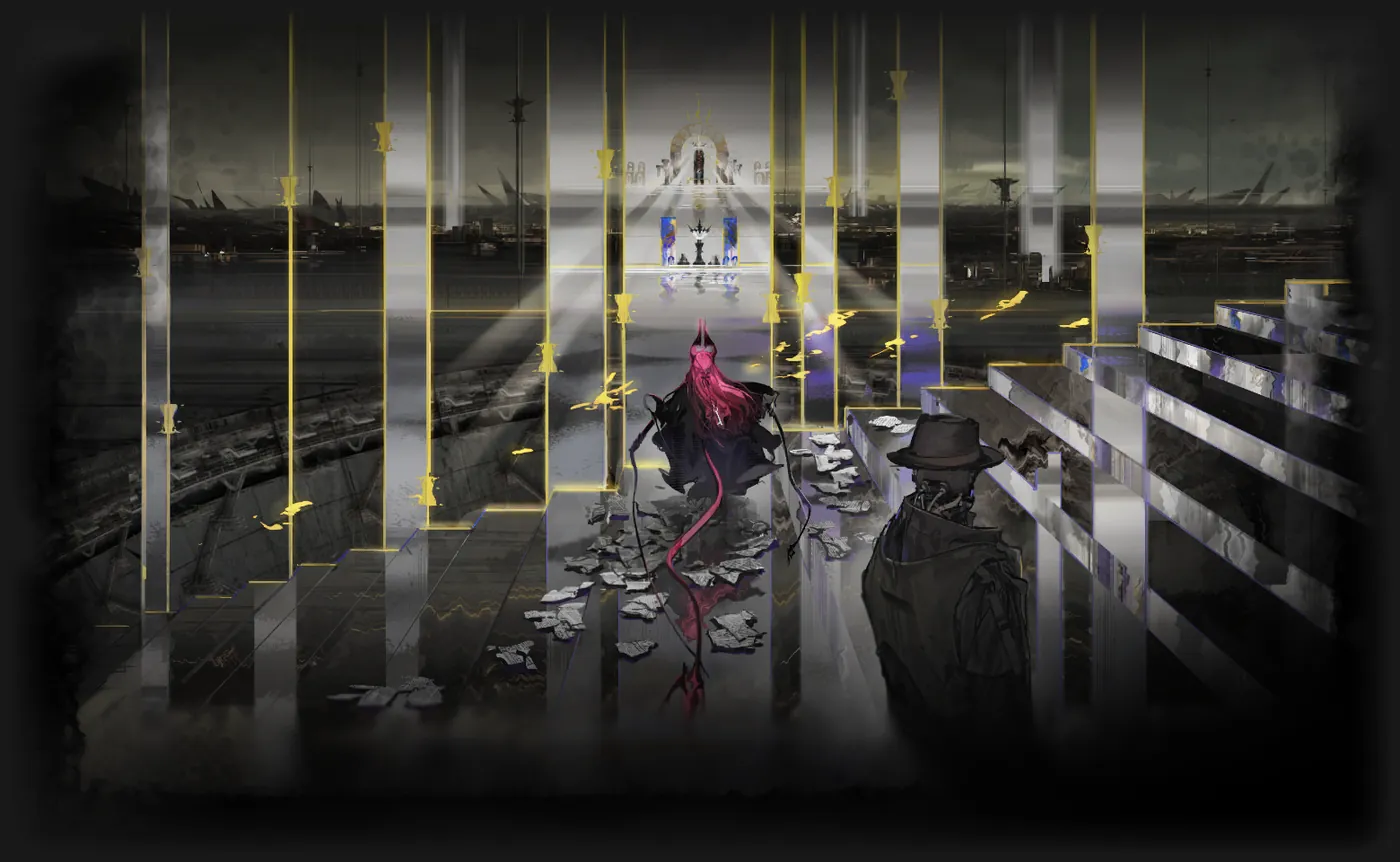
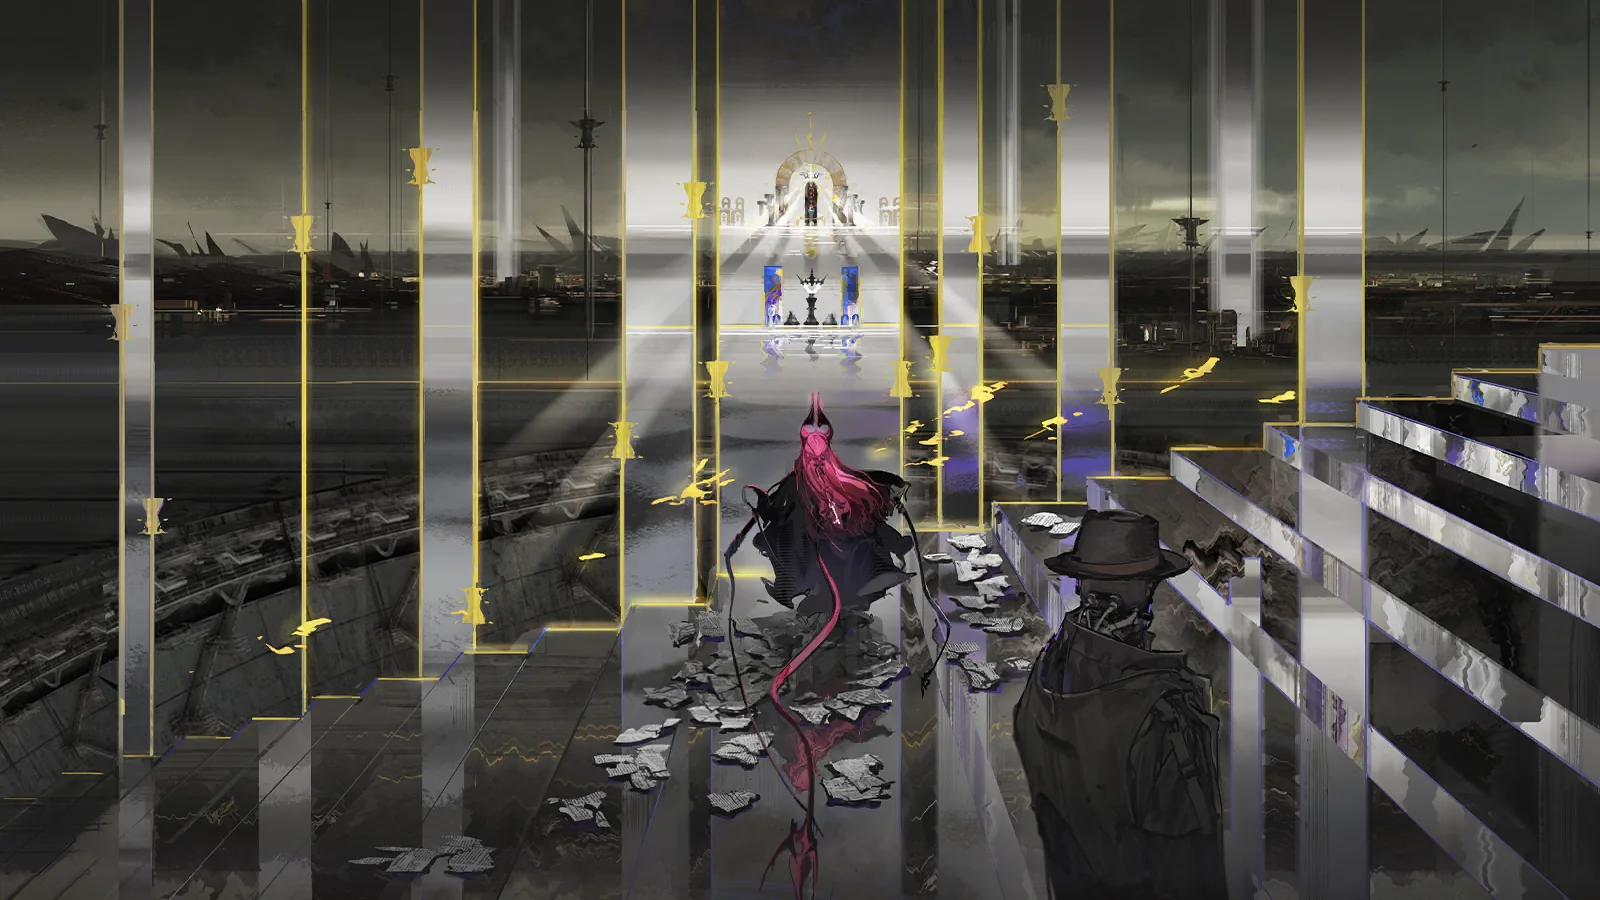
통합전략 테마 — 테마색 조명(주색 빛·보조색 안개·비네트)과 카드 윗변 빛·호버 빛무리, 배경 키비주얼을 스토리 컷씬판 고해상도(1600×900)로 교체

diff --git a/app/globals.css b/app/globals.css
@@ -14648,7 +14648,8 @@ html.rg-theme {
   height: 100%;
   object-fit: cover;
   object-position: 68% 22%;
-  opacity: 0.3;
+  opacity: 0.4;   /* 0.3 → 0.4 (2026-10-17 테마 조명과 함께 — 대비는 비네트가 지킨다) */
+  filter: saturate(1.15);
   pointer-events: none;
   -webkit-mask-image: linear-gradient(180deg, #000 0, #000 32%, transparent 82%);
   mask-image: linear-gradient(180deg, #000 0, #000 32%, transparent 82%);
@@ -14662,6 +14663,52 @@ html.rg-theme.rg6 .rg-kv-page {
   transform: translateY(10%);
   -webkit-mask-image: linear-gradient(180deg, transparent 0, #000 6%, #000 32%, transparent 82%);
   mask-image: linear-gradient(180deg, transparent 0, #000 6%, #000 32%, transparent 82%);
+}
+/* ── 테마 조명 (사용자 요청 2026-10-17 "테마별 배경·색감 좀 더 예쁘게") ──
+   배경이 '어두운 단색 + 흐린 그림'뿐이라 밋밋했다. 키비주얼 **위**에 얇은 조명 한 장을 덮는다:
+   ① 인물 쪽(오른쪽 위)에 테마 주색 빛 ② 왼쪽 아래에 보조색 안개 ③ 가장자리를 눌러 주는 비네트.
+   그림 자체는 조금 더 살리고(불투명도 0.3 → 0.4, 채도 살짝) — 글 대비는 비네트·카드 바탕이 지킨다.
+   색은 테마마다 --rgglow(주) · --rgglow2(보조) 두 개만 고른다. */
+.rg,
+html.rg-theme {
+  --rgglow: #c23b4e;
+  --rgglow2: #c9a35c;
+}
+.rg.rg2, html.rg-theme.rg2 { --rgglow: #3f8fe0; --rgglow2: #4fd2e6; }
+.rg.rg3, html.rg-theme.rg3 { --rgglow: #a9c6e0; --rgglow2: #e6ecf4; }
+.rg.rg4, html.rg-theme.rg4 { --rgglow: #a01e2c; --rgglow2: #c47a33; }
+.rg.rg5, html.rg-theme.rg5 { --rgglow: #f0a0c0; --rgglow2: #c9a7e8; }
+.rg.rg6, html.rg-theme.rg6 { --rgglow: #1fb59e; --rgglow2: #c9b27c; }
+.rg:has(.rg-kv-page)::after {
+  content: "";
+  position: fixed;
+  inset: 0;
+  z-index: -1;
+  pointer-events: none;
+  background:
+    radial-gradient(ellipse 55% 45% at 72% 18%, color-mix(in srgb, var(--rgglow) 22%, transparent), transparent 70%),
+    radial-gradient(ellipse 50% 40% at 12% 100%, color-mix(in srgb, var(--rgglow2) 12%, transparent), transparent 70%),
+    radial-gradient(ellipse 110% 85% at 55% 35%, transparent 55%, color-mix(in srgb, var(--rgbg) 80%, #000) 100%);
+}
+/* 카드 — 윗변에 테마빛 한 줄, 올리면 은은한 빛무리 */
+.rg .rg-zonecard,
+.rg .rg-sec-card,
+.rg .rg-zone,
+.rg .rg-relic,
+.rg .rg-ending,
+.rg .rg-visitor,
+.rg .rg-enemy-cell {
+  box-shadow: inset 0 1px 0 color-mix(in srgb, var(--rgglow) 28%, transparent);
+  transition: border-color 0.15s, box-shadow 0.2s;
+}
+.rg .rg-zonecard:hover,
+.rg .rg-sec-card:hover,
+.rg .rg-relic:hover,
+.rg .rg-ending:hover,
+.rg .rg-visitor:hover,
+.rg .rg-enemy-cell:hover {
+  box-shadow: inset 0 1px 0 color-mix(in srgb, var(--rgglow) 55%, transparent),
+    0 0 18px color-mix(in srgb, var(--rgglow) 22%, transparent);
 }
 /* ⚠ 본문에 z-index 를 일괄로 걸면 안 된다 — .rg-head(z 5)·.rg-headtools(z 30) 처럼
    원래 층이 있던 요소까지 1로 눌려, 테마 변경 드롭다운이 탭 줄 **뒤로** 들어가 눌리지

diff --git a/app/rogue.tsx b/app/rogue.tsx
@@ -67,6 +67,9 @@ function routesFor(id: string): StageRoutes | undefined {
 // 게임연결·리플레이 배포 스위치 — 2026-07-26 켜짐(사용자 지시). 끄면 진입 버튼
 // (BridgeTopicButton)만 사라지고 인식 파이프라인은 죽은 경로로 남는다.
 const BRIDGE_LIVE = true;
+/* 테마 키비주얼 캐시 키 — R2 그림은 30일 캐시라 같은 파일명으로 갈아 끼우면 옛 그림이 남는다. 그림을 바꾸면 올린다
+   (2026-10-17 스토리 컷씬판 1600×900 으로 교체). */
+const KV_VER = "20261017";
 
 // 스샷 레이더 도움말 — 순수 설명 전용 모달 (입력 기능은 페이지 레벨 자동인식이 전담)
 const LensHelpModal = lazy(() => import("./lens/help"));
@@ -2925,7 +2928,7 @@ export default function RogueGuide({ initialTopic }: {
         {/* 테마 키비주얼 — 히어로 상자가 아니라 **페이지 배경**으로 깔린다
             (사용자 제안 2026-09-20). 스크롤과 무관하게 제자리(fixed), 아래로 갈수록
             사라지는 마스크 + 낮은 불투명도라 글을 가리지 않는다. CSS: .rg-kv-page */}
-        {initialTopic && <img className="rg-kv-page" src={asset(`/rogue/kv${initialTopic.split("_")[1]}.webp`)} alt="" aria-hidden loading="lazy" decoding="async" />}
+        {initialTopic && <img className="rg-kv-page" src={asset(`/rogue/kv${initialTopic.split("_")[1]}.webp?v=${KV_VER}`)} alt="" aria-hidden loading="lazy" decoding="async" />}
         {seed && (
           <header className="rg-head">
             <div className="rg-hero">
@@ -3066,7 +3069,7 @@ export default function RogueGuide({ initialTopic }: {
     <section className={`rg${topic === "rogue_1" ? "" : " rg" + topic.split("_")[1]}`} aria-labelledby="rg-title"
       style={{ ["--rg-hue" as string]: TOPIC_HUE[topic] }}>
       {/* 테마 키비주얼 — 히어로 상자가 아니라 페이지 배경 (위 프리렌더 분기와 같은 그림) */}
-      <img className="rg-kv-page" src={asset(`/rogue/kv${topic.split("_")[1]}.webp`)} alt="" aria-hidden decoding="async" />
+      <img className="rg-kv-page" src={asset(`/rogue/kv${topic.split("_")[1]}.webp?v=${KV_VER}`)} alt="" aria-hidden decoding="async" />
       <header className="rg-head">
         <div className="rg-hero">
           <div className="rg-hero-text">

diff --git a/scripts/build-rogue.py b/scripts/build-rogue.py
@@ -1099,6 +1099,9 @@ def build_topic(tid="rogue_1", loc=None):
     # 토픽마다 불규칙해 개별 매핑. 이미 있으면 스킵 (사용자 확정 아트 2026-07-18).
     # ⚠ rogue_3 좌측 반쪽엔 CN 제목이 박혀 있어 커밋본 kv3.webp는 하늘 그라데이션
     # 보간으로 텍스트를 지운 가공본 — 삭제 후 재실행하면 텍스트가 되살아난다.
+    # ⚠ 2026-10-17 부터 커밋본 kv1~6 은 이 경로가 아니라 같은 그림의 스토리 컷씬판
+    #   avg/images/pic_rogue_<N>_kv{1|2} (1600×900, 글자·바랜 테두리 없음)이다 — 사용자 "배경 고해상도 없었나?".
+    #   N → 컷: 1·4·5·6 = kv1, 2·3 = kv2 (rogue_6 은 중섭). 아래는 파일이 없을 때만 도는 옛 폴백.
     KV_SRC = {
         "rogue_2": ("rogue_2_update/entrykeyvisuals/rogue_2_kv_1_2/rl2_home_kv12_bg1.png",
                     "rogue_2_update/entrykeyvisuals/rogue_2_kv_1_2/rl2_home_kv12_bg2.png"),
